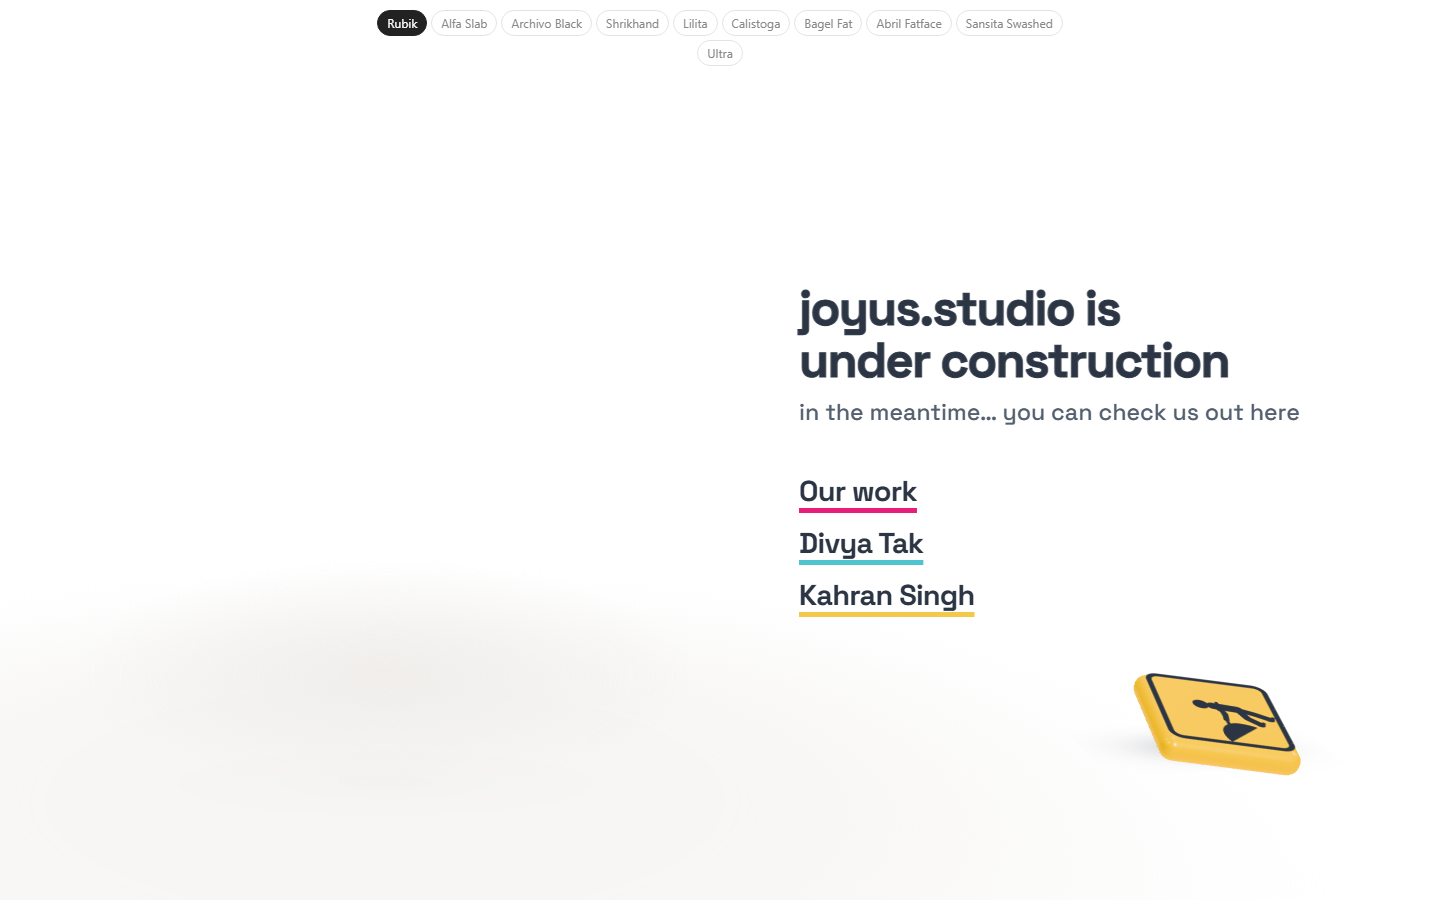
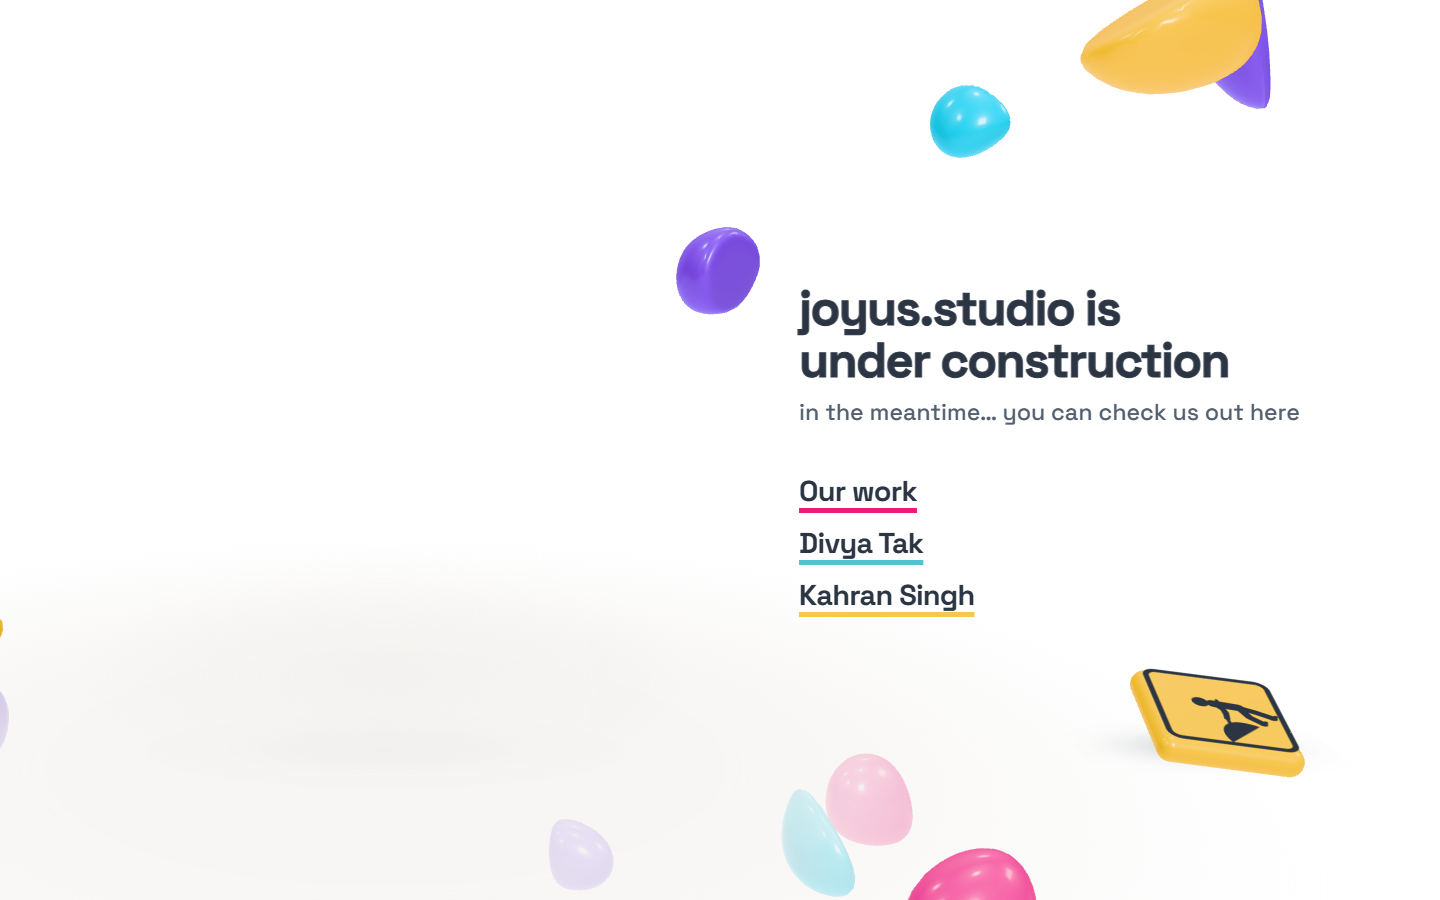
Study 41: the study-only font bar is gone too (Divya, 13 Oct); the ten fonts just cycle

diff --git a/studies/iterations/41/coming-soon.html b/studies/iterations/41/coming-soon.html
@@ -57,19 +57,9 @@ h1 .keep { white-space: nowrap }   /* Study 35: "under construction" stays on on
 .links a:hover, .links a:focus-visible { background-size: 100% 100%; text-underline-offset: 3px; text-decoration-thickness: 9px }
 .links a:hover::after, .links a:focus-visible::after { clip-path: inset(0 0 0 0) }
 @media (prefers-reduced-motion: reduce) { .links a, .links a::after { transition: none } }
-/* study only: the font bar, not part of the design. The lit one is the font on stage; it moves as the J cycles. */
-.study { position: fixed; top: 10px; left: 50%; transform: translateX(-50%); z-index: 2; display: flex; flex-wrap: wrap; justify-content: center; gap: 4px; font: 12px/1 system-ui, sans-serif; max-width: calc(100vw - 20px) }
-.study a { padding: 6px 9px; color: #888; text-decoration: none; border: 1px solid #e3e3e3; border-radius: 99px; background: #fff; cursor: pointer }
-.study a[aria-current] { color: #fff; background: #222; border-color: #222 }
-.study a[data-next] { border-color: #222 }
-.study .gap { width: 10px }
-@media (max-width: 600px) { .study { gap: 3px; font-size: 10.5px } .study a { padding: 4px 6px } }
 </style>
 </head>
 <body>
-<nav class="study" aria-label="Font (study only)">
-  <a data-font="rubik">Rubik</a><a data-font="alfa-slab">Alfa Slab</a><a data-font="archivo-black">Archivo Black</a><a data-font="shrikhand">Shrikhand</a><a data-font="lilita">Lilita</a><a data-font="calistoga">Calistoga</a><a data-font="bagel-fat">Bagel Fat</a><a data-font="abril">Abril Fatface</a><a data-font="sansita-swashed">Sansita Swashed</a><a data-font="ultra">Ultra</a>
-</nav>
 <canvas id="gl" aria-hidden="true"></canvas>
 <div id="stage"></div>
 <main class="below">
@@ -104,7 +94,9 @@ h1 .keep { white-space: nowrap }   /* Study 35: "under construction" stays on on
   "three/addons/": "https://cdn.jsdelivr.net/npm/three@0.169.0/examples/jsm/"
 } }</script>
 <script type="module">
-/* Study 41: a graceful first load (Divya, 13 Oct: 1.5 s of nothing). The
+/* Study 41 (later the same day): the study-only font bar is gone too (Divya:
+   "why can i see the fonts on top? remove those"); the ten fonts just cycle.
+   Study 41: a graceful first load (Divya, 13 Oct: 1.5 s of nothing). The
    floor, the sign and the words are drawn at once; the worker is started
    from an inline script before three.js downloads; each stone flies in the
    moment it is meshed; the two fallen stones are chosen once all are in
@@ -417,7 +409,8 @@ const firstBuild = firstStones((d) => { addStone(G, d); }).then((J) => { finishG
 const after = (font) => FONTS[(FONTS.indexOf(font) + 1) % FONTS.length];
 let nextFont = after(FONT), nextJ = firstBuild.then(() => build(nextFont, 1));
 T.next = nextFont;
-function jump(font) {   /* study bar: bring this font next, now */
+T.jump = (f) => jump(f);   /* the test jumps fonts this way now the bar is gone */
+function jump(font) {   /* bring this font next, now */
   if (!FONTS.includes(font) || font === G.font || T.phase === 'swap' || !G.done) return;
   nextFont = font; nextJ = build(font, G.gen + 1); T.next = font;
   if (T.phase !== 'fall') letGo();
@@ -488,7 +481,7 @@ function fit() {
   { const cc = new THREE.Box3().setFromPoints(pts).getCenter(new THREE.Vector3()); for (const p of pts) p.sub(cc).multiplyScalar(1 / SHRINK).add(cc); }
   const box = new THREE.Box3().setFromPoints(pts), c = box.getCenter(new THREE.Vector3());
   /* the stage box in normalised device coordinates */
-  const barBottom = document.querySelector('.study').getBoundingClientRect().bottom;   // the study bar wraps on a phone (Study 20 try 1: it covered the J)
+  const barEl = document.querySelector('.study'), barBottom = barEl ? barEl.getBoundingClientRect().bottom : 0;   // the bar is gone (Divya, 13 Oct); the J starts under the top edge
   /* Study 28: the floor things sat on the column's bottom edge with 6px to spare; now 5% of its height */
   const top = 1 - 2 * Math.max(r.top + 8, barBottom + 8) / H, bottom = 1 - 2 * (r.bottom - Math.max(6, 0.05 * r.height)) / H;
   /* Study 28: the stage is a column, so its sides bound the J too, and the view is shifted to its middle in both axes */
